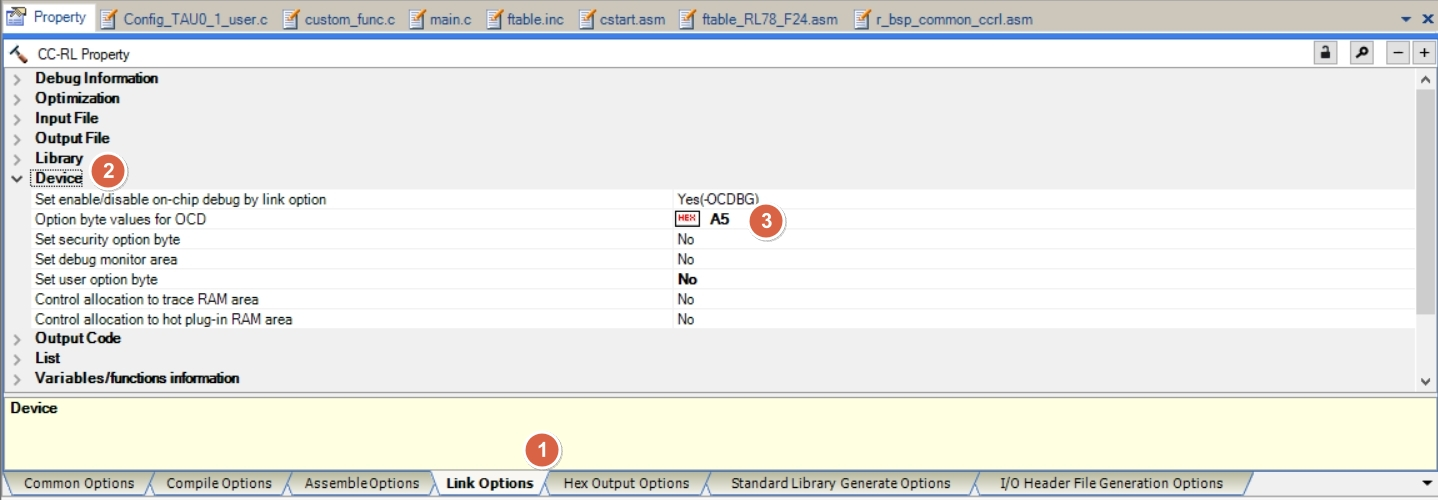
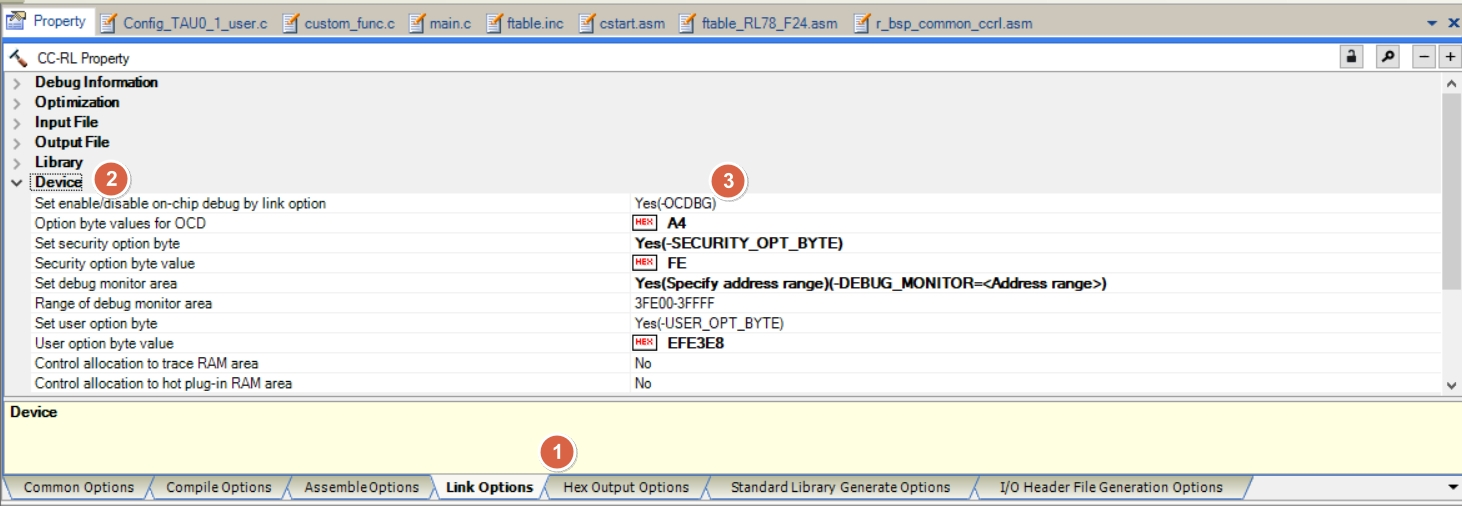
update
update

Changed region(s): [[0.0, 0.0, 1.0, 0.84], [0.0, 0.84, 1.0, 1.0]]

diff --git a/index.md b/index.md
@@ -272,6 +272,12 @@ CRC in app code last 4 bytes will be added after compile at <b><u>app code proje
 
 ---
 
+* smart configurator system setting as below
+
+![](img/smc_system.jpg)
+
+---
+
 # Project : boot code modifictaion - boot_main.c
 
 * for boot_hdwinit() , will be initialized by [cstart.asm](#boot_hdwinit)
@@ -302,7 +308,6 @@ CRC in app code last 4 bytes will be added after compile at <b><u>app code proje
 ![](img/boot_i2c_03.jpg)
 
 ---
-
 
 # Project : boot code property modifictaion - E2 lite setting
 
@@ -387,7 +392,7 @@ copy /y/v .\DefaultBuild\RL78_F24_Boot_loader_UART.fsy ..\RL78_F24_Boot_loader_a
 
 ![](img/boot_property_link_01.jpg)
 * __[Device] > [Option byte values for OCD]__
-  * set to ```A5```
+  * set to ```A4```
   * default will be 0xFF
 ![](img/boot_property_link_02.jpg)
 <br>
@@ -491,6 +496,35 @@ copy /y/v .\DefaultBuild\RL78_F24_Boot_loader_UART.fsy ..\RL78_F24_Boot_loader_a
   * the final result : 
 ![](img/boot_property_link_07.jpg)
 <br>
+
+---
+
+* how do we know section address meaning
+
+![](img/boot_debug_monitor.jpg)
+
+  * ==flash assignment after debug area==
+    * 0x000F0 (RL78 F24 , F23)
+
+---
+
+![](img/boot_map_SRAM_address_1.jpg)
+  * ==ram assignment==
+    * 0xF9F00 (RL78 F24)
+    * 0xFCF00 (RL78 F23)
+
+![](img/boot_map_SRAM_address_2.jpg)
+![](img/boot_map_SRAM_address_3.jpg)
+
+
+---
+
+![](img/CCRL_Section_allocation.jpg)
+  * ==short direction address (.saddr) assignment==
+    * 0xFFE20 (RL78 F24 , F23)
+
+![](img/boot_map_saddr_address_1.jpg)
+
 
 ---
 
@@ -718,6 +752,14 @@ __4.2.1  Registering the externally defined symbol file with the project__
 
 
 ---
+
+* smart configurator system setting as below
+
+![](img/smc_system.jpg)
+
+---
+
+
 # Project : app code modifictaion -  remove static and vect define
 
 refer to How to Divide Boot and Flash Areas :
@@ -862,7 +904,7 @@ __create3_app_binary.cmd__
 
 ![](img/app_property_link_01.jpg)
 * __[Device] > [Option byte values for OCD]__
-  * set to ```A5```
+  * set to ```A4```
   * default will be 0xFF
 
 <br>
